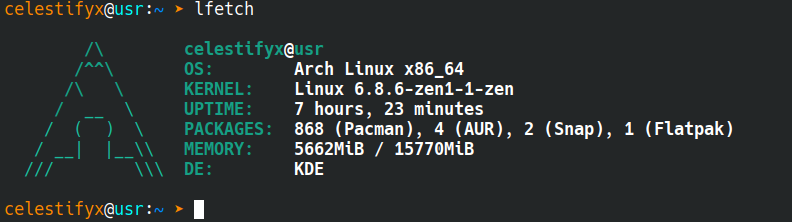
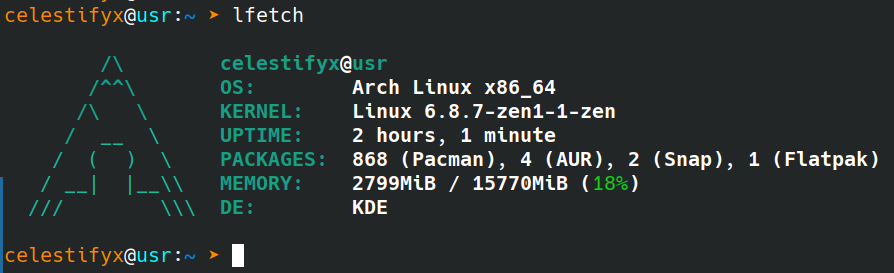
Add files via upload

diff --git a/functions/functions.py b/functions/functions.py
@@ -1,6 +1,8 @@
 import os
 import subprocess
 
+from colors.colors import Colors
+
 def check_command_exists(command):
     try:
         subprocess.run(["which", command], check=True, stdout=subprocess.PIPE, stderr=subprocess.PIPE)
@@ -22,14 +24,15 @@ def list_packages():
         if check_command_exists(manager):
             command = [manager]
 
-            if manager == "pacman":
-                command.append("-Q")
-            elif manager == "yay":
-                command.append("-Q")
-            elif manager == "snap":
-                command.append("list")
-            elif manager == "flatpak":
-                command.extend(["list", "--columns=application"])
+            command_map =  {
+                "pacman":  ["-Qq"],
+                "yay":     ["-Qq"],
+                "snap":    ["list"],
+                "flatpak": ["list", "--columns=application"]
+            }
+
+            if manager in command_map:
+                command.extend(command_map[manager])
 
             try:
                 output       = subprocess.run(command, check=True, stdout=subprocess.PIPE, stderr=subprocess.PIPE, text=True)
@@ -43,3 +46,11 @@ def list_packages():
 
     installed_packages.sort(key=lambda x: x[1], reverse=True)
     return ', '.join(f"{count} ({name})" for name, count in installed_packages)
+
+def get_info_memory(memory_info):
+    total_memory = int(memory_info.split()[1])
+    used_memory  = int(memory_info.split()[2])
+    percentage   = round(((used_memory / total_memory) * 100))
+    color        = (Colors.green if percentage <= 50 else (Colors.orange if percentage <= 80 else Colors.red))
+
+    return f"{used_memory}MiB / {total_memory}MiB ({color}{percentage}%{Colors.RBW})"

diff --git a/system_info/system_info.py b/system_info/system_info.py
@@ -12,13 +12,12 @@ def get_system_info():
         elif line.startswith('VERSION='):
             os_version = line.split('=')[1].strip('"')
 
-    os_arch      = os.uname().machine
-    kernel       = subprocess.check_output(['uname',  '-sr'], text=True).strip()
-    uptime       = subprocess.check_output(['uptime', '-p'],  text=True).strip().split('up ')[-1]
-    packages     = list_packages()
-    memory_info  = subprocess.check_output(['free',   '-m'],  text=True).splitlines()[1]
-    total_memory = memory_info.split()[1]
-    used_memory  = memory_info.split()[2]
-    memory       = f"{used_memory}MiB / {total_memory}MiB"
+    os_arch     = os.uname().machine
+    kernel      = subprocess.check_output(['uname',  '-sr'], text=True).strip()
+    uptime      = subprocess.check_output(['uptime', '-p'],  text=True).strip().split('up ')[-1]
+    memory_info = subprocess.check_output(['free',   '-m'],  text=True).splitlines()[1]
+
+    packages    = list_packages()
+    memory      = get_info_memory(memory_info)
 
     return hostname, f"{os_name} {os_version}{os_arch}", kernel, uptime, packages, memory

diff --git a/colors/colors.py b/colors/colors.py
@@ -3,6 +3,9 @@ class Colors:
     reset  = '\033[0m'
     cyan   = '\033[36m'
     white  = '\033[37m'
+    red    = '\033[0;31m'
+    green  = '\033[0;32m'
+    orange = '\033[0;33m'
 
     RBC    = f"{reset}{bold}{cyan}"
     RBW    = f"{reset}{bold}{white}"
